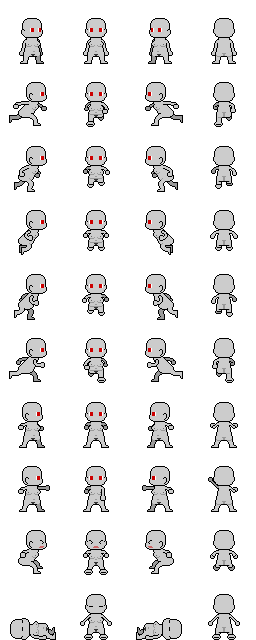
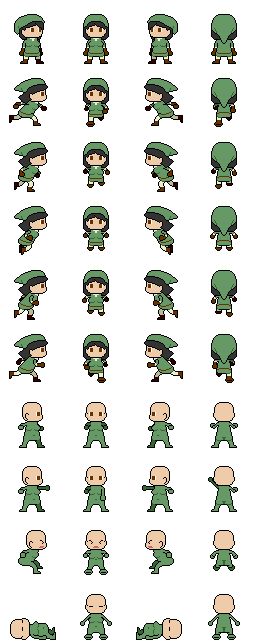
Update art assets for actor and boxes

diff --git a/app/main.js b/app/main.js
@@ -141,7 +141,7 @@
 
 	    //Account for graphical settings
 	    //--------------------------------
-	    this.html.canvas.style = "width: " + Math.floor(this.canvasWidth * HTML_CANVAS_CSS_SCALE) + "px";
+	    if (HTML_CANVAS_CSS_SCALE !== 1) this.html.canvas.style = "width: " + Math.floor(this.canvasWidth * HTML_CANVAS_CSS_SCALE) + "px";
 	    this.context2d.mozImageSmoothingEnabled = false;
 	    this.context2d.msImageSmoothingEnabled = false;
 	    this.context2d.imageSmoothingEnabled = false;
@@ -2293,7 +2293,7 @@
 	      //Images
 	      //--------------------------------
 	      avo.assets.images.actor = new _utility.ImageAsset("assets/nonita-60/actor.png");
-	      avo.assets.images.box = new _utility.ImageAsset("assets/nonita-60/box.png");
+	      avo.assets.images.boxes = new _utility.ImageAsset("assets/nonita-60/boxes.png");
 	      //--------------------------------
 
 	      //Animations
@@ -2327,7 +2327,7 @@
 	          actions: {
 	            idle: {
 	              loop: true,
-	              steps: [{ col: 0, row: 0, duration: 1 }]
+	              steps: [{ col: 1, row: 0, duration: 1 }]
 	            }
 	          }
 	        }
@@ -2412,7 +2412,7 @@
 
 	      var newActor = void 0;
 	      newActor = new _entities.Actor("box", avo.canvasWidth * 0.25, avo.canvasHeight * 0.5, 32, AVO.SHAPE_SQUARE);
-	      newActor.spritesheet = avo.assets.images.box;
+	      newActor.spritesheet = avo.assets.images.boxes;
 	      newActor.animationSet = avo.animationSets.box;
 	      newActor.rotation = AVO.ROTATION_NORTH;
 	      newActor.playAnimation("idle");

diff --git a/src/nonita-60/index.js b/src/nonita-60/index.js
@@ -31,7 +31,7 @@ export class Nonita60 extends Story {
     //Images
     //--------------------------------
     avo.assets.images.actor = new ImageAsset("assets/nonita-60/actor.png");
-    avo.assets.images.box = new ImageAsset("assets/nonita-60/box.png");
+    avo.assets.images.boxes = new ImageAsset("assets/nonita-60/boxes.png");
     //--------------------------------
     
     //Animations
@@ -77,7 +77,7 @@ export class Nonita60 extends Story {
         idle: {
           loop: true,
           steps: [
-            { col: 0, row: 0, duration: 1 }
+            { col: 1, row: 0, duration: 1 }
           ],
         },
       },
@@ -142,7 +142,7 @@ export class Nonita60 extends Story {
     
     let newActor;
     newActor = new Actor("box", avo.canvasWidth * 0.25, avo.canvasHeight * 0.5, 32, AVO.SHAPE_SQUARE);
-    newActor.spritesheet = avo.assets.images.box;
+    newActor.spritesheet = avo.assets.images.boxes;
     newActor.animationSet = avo.animationSets.box;
     newActor.rotation = AVO.ROTATION_NORTH;
     newActor.playAnimation("idle");

diff --git a/src/avo/index.js b/src/avo/index.js
@@ -45,7 +45,7 @@ export class AvO {  //Naming note: small 'v' between capital 'A' and 'O'.
     
     //Account for graphical settings
     //--------------------------------
-    this.html.canvas.style = "width: " + Math.floor(this.canvasWidth * HTML_CANVAS_CSS_SCALE) + "px";
+    if (HTML_CANVAS_CSS_SCALE !== 1) this.html.canvas.style = "width: " + Math.floor(this.canvasWidth * HTML_CANVAS_CSS_SCALE) + "px";
     this.context2d.mozImageSmoothingEnabled = false;
     this.context2d.msImageSmoothingEnabled = false;
     this.context2d.imageSmoothingEnabled = false;

diff --git a/app/main.css b/app/main.css
@@ -25,10 +25,4 @@ body {
   max-height: 100%;
   background: #fff;
   touch-action: none;
-  image-rendering: optimizeSpeed;
-  image-rendering: -moz-crisp-edges;
-  image-rendering: -webkit-optimize-contrast;
-  image-rendering: optimize-contrast;
-  -ms-interpolation-mode: nearest-neighbor;
-  image-rendering: pixelated;
 }
